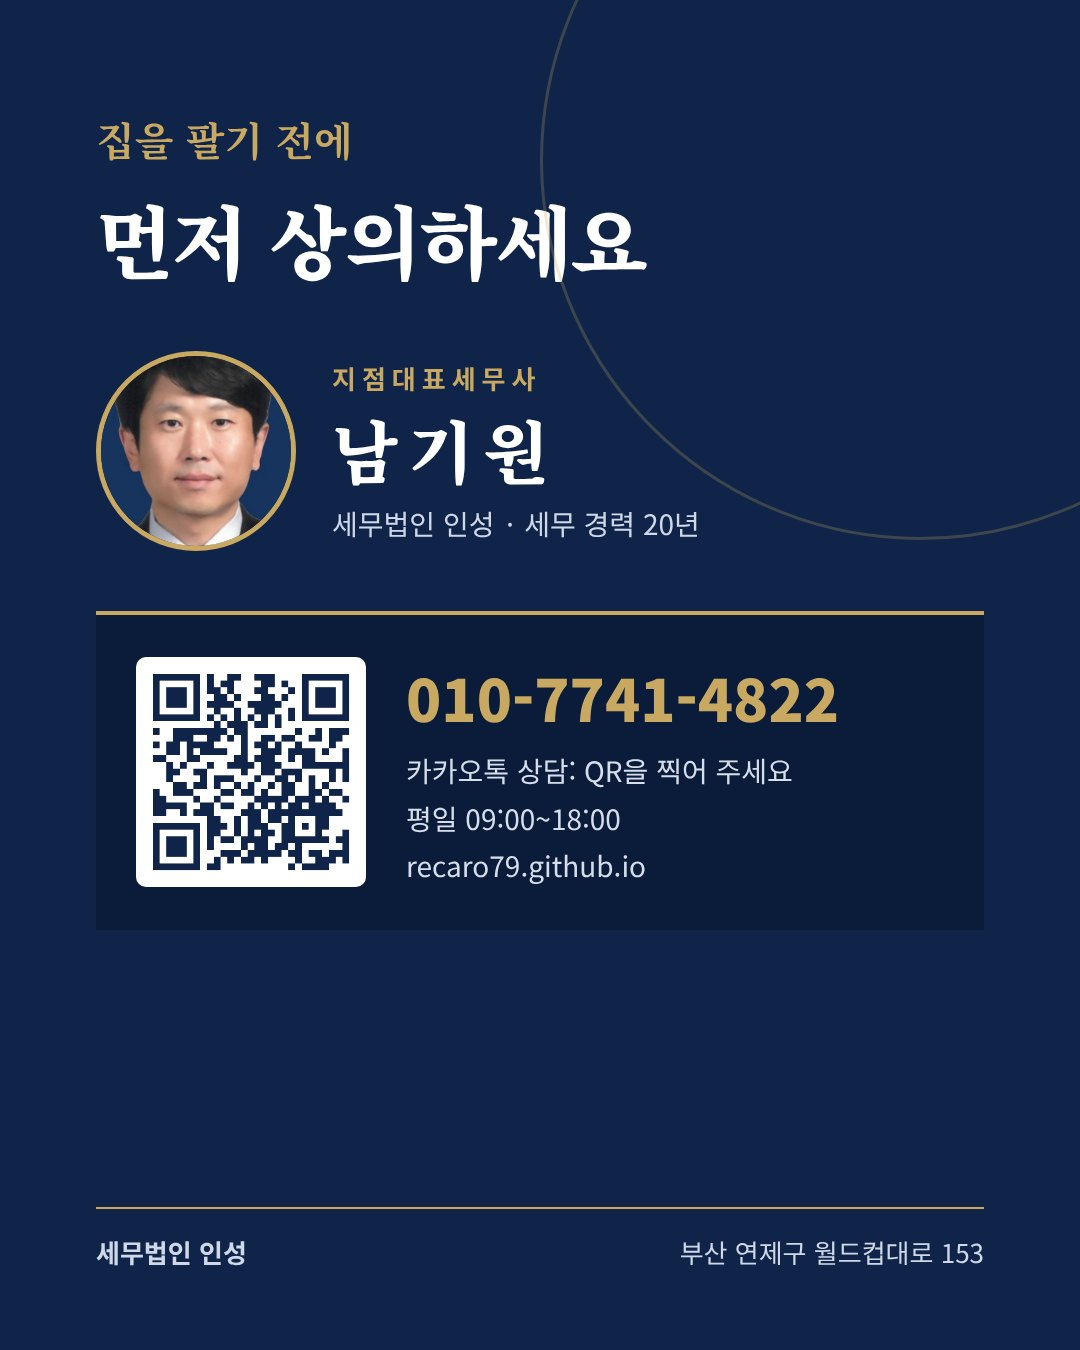
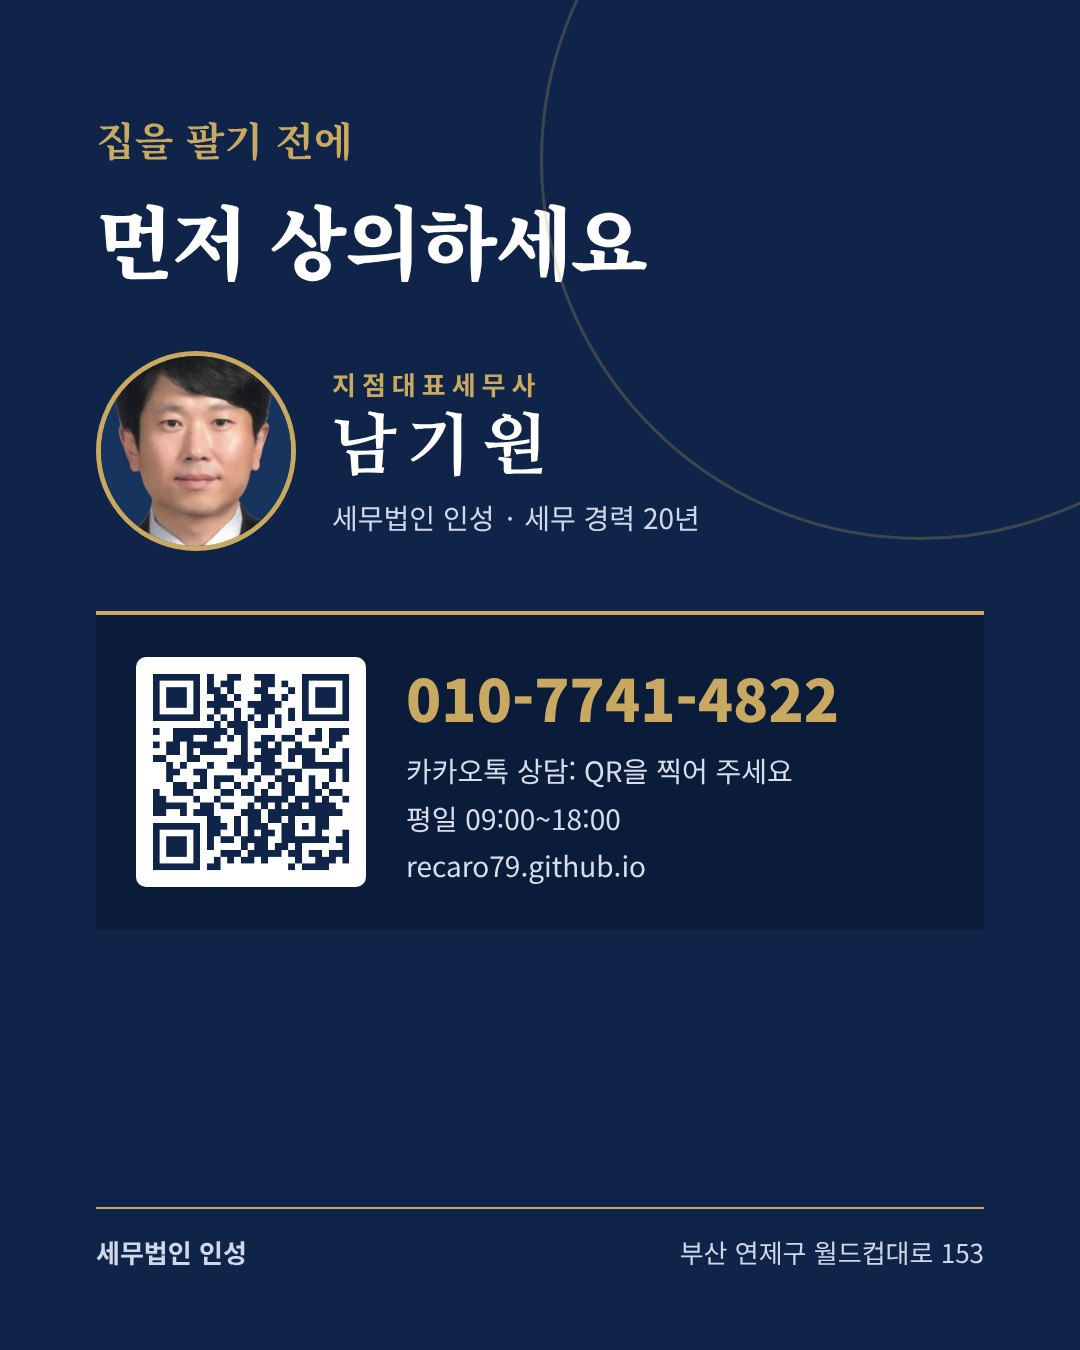
칼럼 04: 나눔명조 글씨체 반영(스타일 버전·카드뉴스 재생성)
Claude-Session: https://claude.ai/code/session_01SxCCn3rZQFA7DtWE5axBLc

Changed region(s): [[0.3056, 0.2489, 0.6417, 0.4044]]

diff --git a/column/04-temporary-two-house.html b/column/04-temporary-two-house.html
@@ -12,8 +12,8 @@
 <meta property="og:image" content="https://recaro79.github.io/assets/img/col04-thumb.jpg">
 <link rel="canonical" href="https://recaro79.github.io/column/04-temporary-two-house.html">
 <link rel="preconnect" href="https://fonts.googleapis.com">
-<link href="https://fonts.googleapis.com/css2?family=Noto+Sans+KR:wght@400;500;700;900&display=swap" rel="stylesheet">
-<link rel="stylesheet" href="/assets/style.css?v=20261112c">
+<link href="https://fonts.googleapis.com/css2?family=Noto+Sans+KR:wght@400;500;700;900&family=Nanum+Myeongjo:wght@700;800&display=swap" rel="stylesheet">
+<link rel="stylesheet" href="/assets/style.css?v=20261112d">
 </head>
 <body>
 <header class="hd"><div class="wrap">
